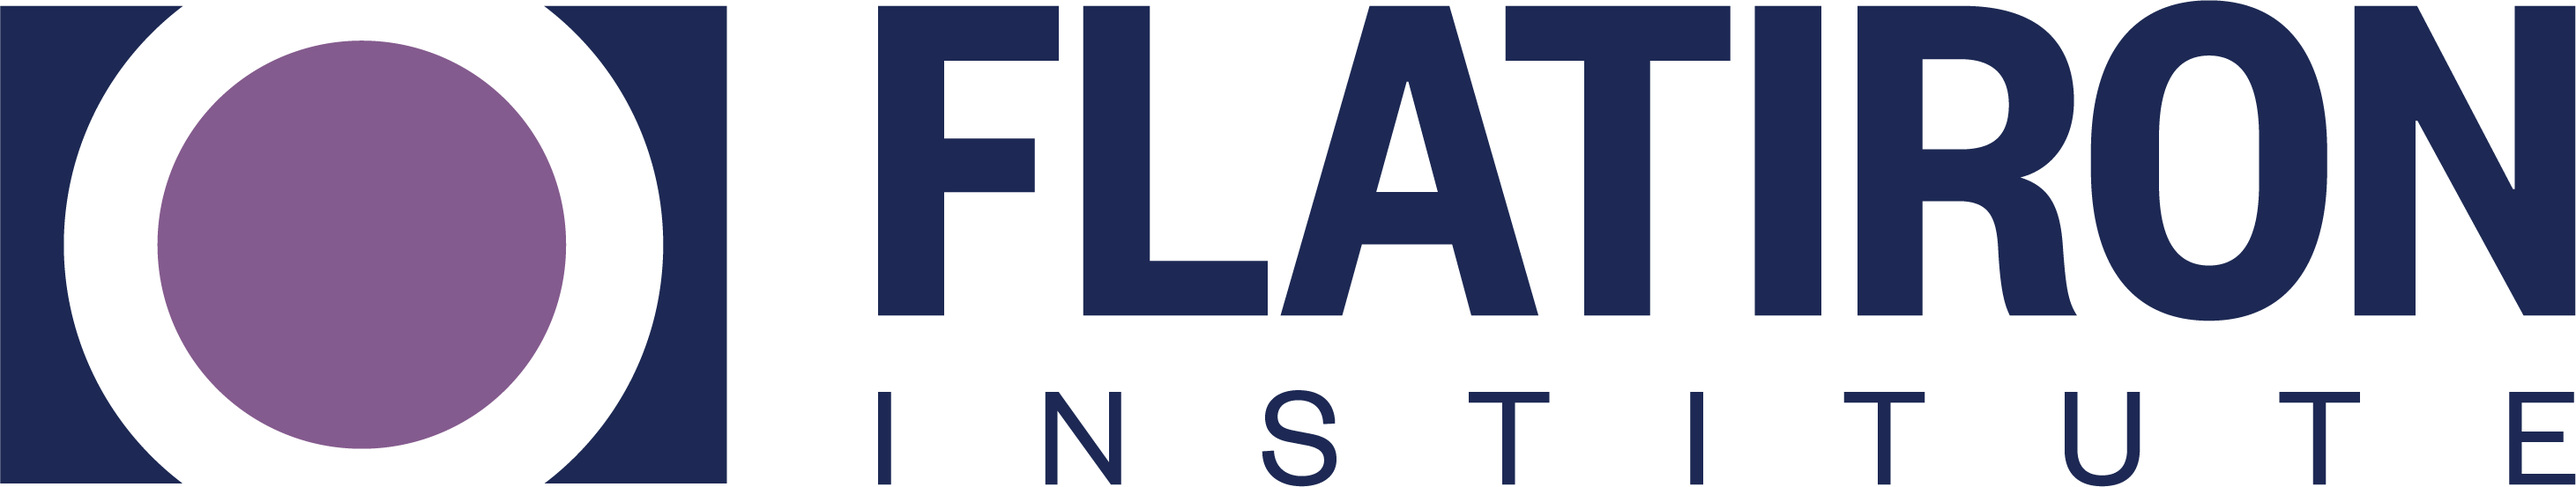
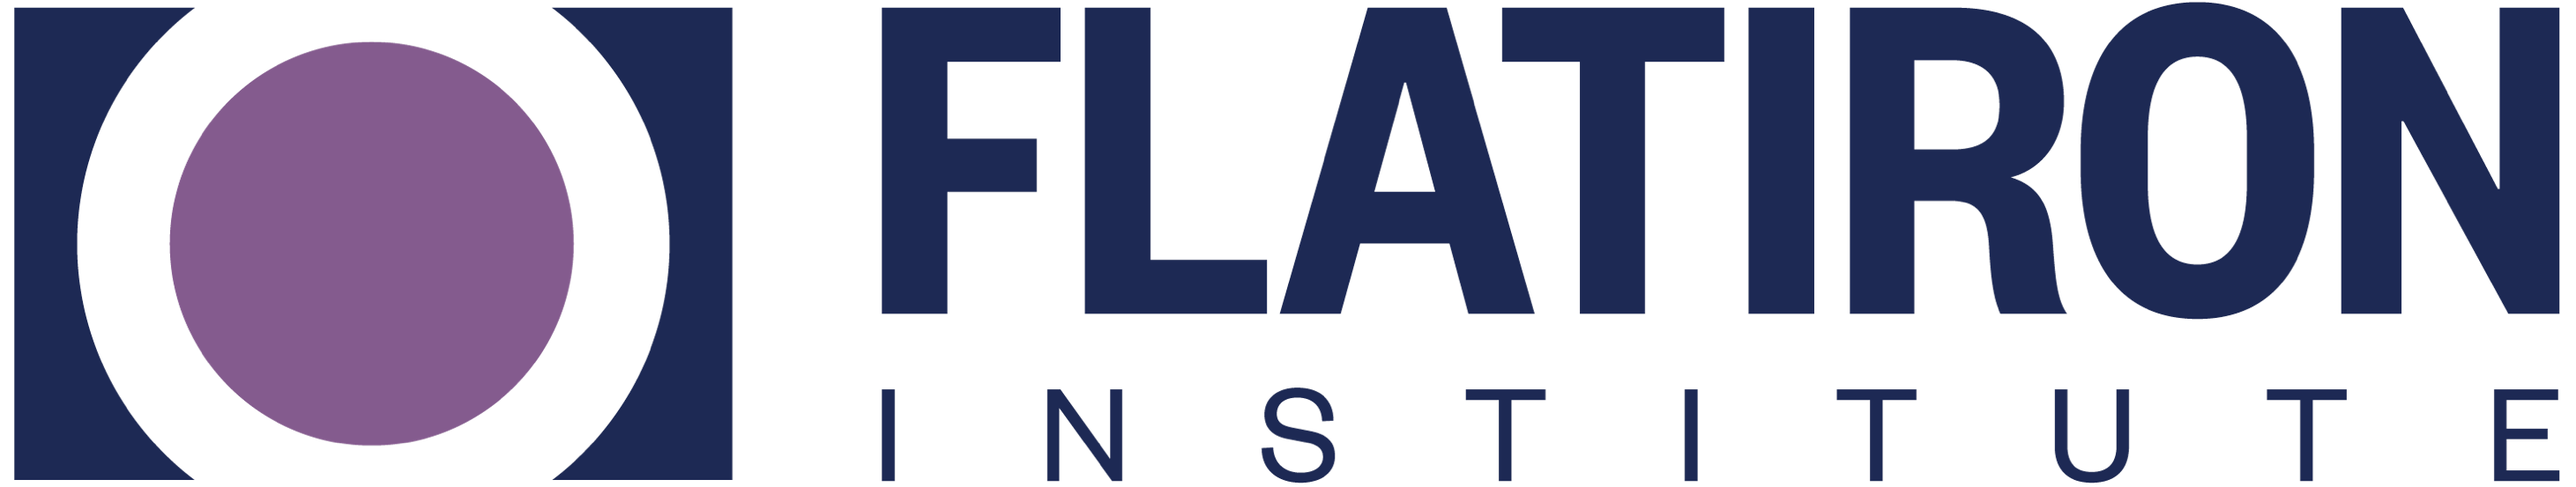
Update template (#9)

diff --git a/docs/src/assets/extras.css b/docs/src/assets/extras.css
@@ -1,0 +1,15 @@
+.display-light-only {
+    display: block;
+}
+
+.display-dark-only {
+    display: none;
+}
+
+.theme--documenter-dark .display-light-only {
+    display: none;
+}
+
+.theme--documenter-dark .display-dark-only {
+    display: block;
+}

diff --git a/README.md b/README.md
@@ -1,7 +1,7 @@
 # TensorProducts.jl
 
-[![Stable](https://img.shields.io/badge/docs-stable-blue.svg)](https://ITensor.github.io/TensorProducts.jl/stable/)
-[![Dev](https://img.shields.io/badge/docs-dev-blue.svg)](https://ITensor.github.io/TensorProducts.jl/dev/)
+[![Stable](https://img.shields.io/badge/docs-stable-blue.svg)](https://itensor.github.io/TensorProducts.jl/stable/)
+[![Dev](https://img.shields.io/badge/docs-dev-blue.svg)](https://itensor.github.io/TensorProducts.jl/dev/)
 [![Build Status](https://github.com/ITensor/TensorProducts.jl/actions/workflows/Tests.yml/badge.svg?branch=main)](https://github.com/ITensor/TensorProducts.jl/actions/workflows/Tests.yml?query=branch%3Amain)
 [![Coverage](https://codecov.io/gh/ITensor/TensorProducts.jl/branch/main/graph/badge.svg)](https://codecov.io/gh/ITensor/TensorProducts.jl)
 [![Code Style: Blue](https://img.shields.io/badge/code%20style-blue-4495d1.svg)](https://github.com/invenia/BlueStyle)
@@ -9,7 +9,11 @@
 
 ## Support
 
-<img src="docs/src/assets/CCQ.png" width="20%" alt="Flatiron Center for Computational Quantum Physics logo.">
+<picture>
+  <source media="(prefers-color-scheme: dark)" width="20%" srcset="docs/src/assets/CCQ-dark.png">
+  <img alt="Flatiron Center for Computational Quantum Physics logo." width="20%" src="docs/src/assets/CCQ.png">
+</picture>
+
 
 TensorProducts.jl is supported by the Flatiron Institute, a division of the Simons Foundation.
 
